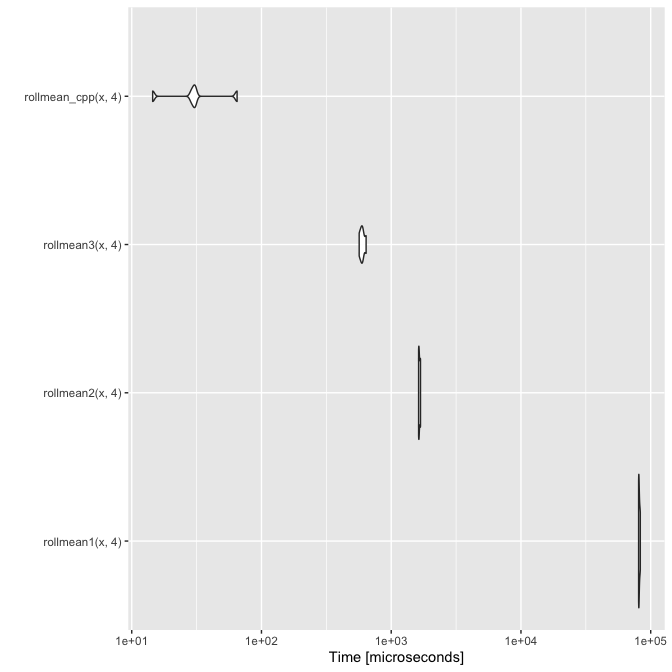
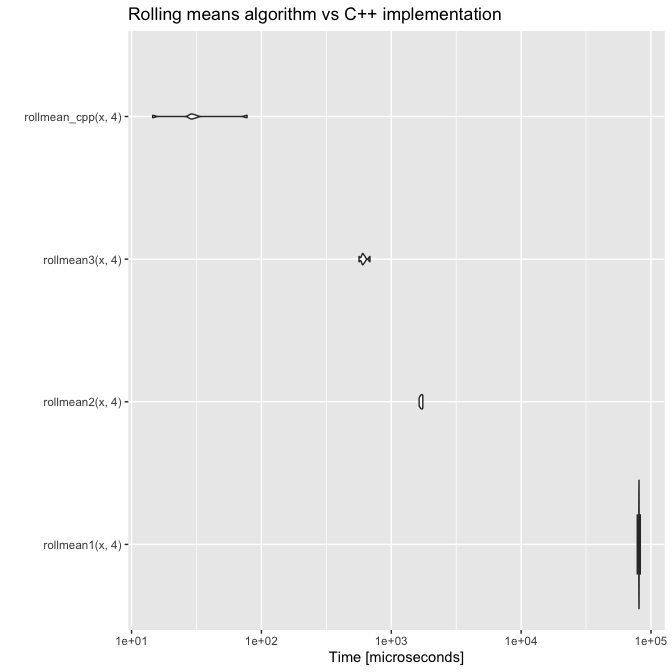
Sum C++ algorithm, plot titles.

diff --git a/README.md b/README.md
@@ -8,6 +8,7 @@ You can find all `C++` code here at the [`cpp`](/cpp) directory.
 
 One can mimic R's interactivity with `C++` using the `evalCpp()` function.
 
+
 ```r
 Rcpp::evalCpp("40 + 2")
 ```
@@ -94,12 +95,27 @@ Rcpp::evalCpp("(double) 13 / 4"); storage.mode(Rcpp::evalCpp("(double) 13 / 4"))
 
 ## Benchmarking
 
-We will be using `microbenchmark` package throughout along with the `ggplot2::autoplot()` function to visualise performance gains. Here I build a little function that sums all values in an array, let's compare it to the `R`'s built in `sum()` function.
+We will be using `microbenchmark` package throughout along with the `ggplot2::autoplot()` function to visualise performance gains. Here I build a little function in `R` and in `C++` which sums all values in an array, let's compare it to the `R`'s built in `sum()` function.
+
+
+
+```cpp
+#include <Rcpp.h>
+using namespace Rcpp;
+
+// [[Rcpp::export]]
+double sum_cpp(NumericVector x) {
+	double accum = 0;
+	for(int i = 0; x.size() > i; i++) {
+		accum = accum + x[i];
+	}
+	
+	return accum;
+}
+```
 
 
 ```r
-x <- runif(100000L) * 100
-
 sum_loop <- function(x) {
 	accum <- 0
 	for (i in 1:length(x)) {
@@ -107,8 +123,13 @@ sum_loop <- function(x) {
 	}
 	return(accum)
 }
+```
 
-all.equal(sum_loop(x), sum(x))
+
+```r
+x <- runif(100000L) * 100
+
+all.equal(sum_loop(x), sum(x), sum_cpp(x))
 ```
 
 ```
@@ -117,17 +138,20 @@ all.equal(sum_loop(x), sum(x))
 
 ```r
 res <- microbenchmark::microbenchmark(
+	sum_cpp(x),
 	sum_loop(x),
 	sum(x),
-	times = 3
+	times = 10
 )
 ```
 
+
 ```r
-ggplot2::autoplot(res)
+ggplot2::autoplot(res) +
+	ggplot2::labs(title = "Summing a vector implementations")
 ```
 
-<img src="/figures/cs-Rcpp_files/figure-html/benchmarking-plot-1.png" style="display: block; margin: auto;" />
+<img src="/Users/work/Autodidacte/data-science/data-camp/cs-Rcpp/figures/cs-Rcpp_files/figure-html/benchmarking-sum-plot-1.png" style="display: block; margin: auto;" />
 
 ```r
 remove(res)
@@ -248,9 +272,9 @@ identical(the_answer(), 42L)
 
 ```r
 cppFunction("
-double euclidean_distance(double x, double y) {
-	return sqrt(x * x + y * y);
-}
+	double euclidean_distance(double x, double y) {
+		return sqrt(x * x + y * y);
+	}
 ")
 
 euclidean_distance(1.5, 2.5)
@@ -277,13 +301,13 @@ It takes a string in double quotes and a place holder with a variable to replace
 
 ```r
 cppFunction('
-int fun() {
-	int x = 42;
-	
-	Rprintf("message, x = %d\\n", x);
-	
-	return 76;
-}
+	int fun() {
+		int x = 42;
+		
+		Rprintf("message, x = %d\\n", x);
+		
+		return 76;
+	}
 ')
 
 fun()
@@ -305,11 +329,11 @@ Note that `%d` and `%s` are used, first for an `integer` and the second for a `s
 ```r
 # Define the function add()
 cppFunction('
-int add(int x, int y) {
-	int res = x + y;
-	Rprintf("** %d + %d = %d\\n", x, y, res);
-	return res;
-}
+	int add(int x, int y) {
+		int res = x + y;
+		Rprintf("** %d + %d = %d\\n", x, y, res);
+		return res;
+	}
 ')
 
 # Call add() to print THE answer
@@ -329,16 +353,16 @@ Here we define a function that will only work if both arguments are positive, an
 
 ```r
 cppFunction('
-// adds x and y, but only if they are positive
-int add_positive_numbers(int x, int y) {
-	// if x is negative, stop
-	if(x < 0) stop("x is negative");
-	
-	// if y is negative, stop
-	if(y < 0) stop("y is negative");
-	
-	return x + y;
-}
+	// adds x and y, but only if they are positive
+	int add_positive_numbers(int x, int y) {
+		// if x is negative, stop
+		if(x < 0) stop("x is negative");
+		
+		// if y is negative, stop
+		if(y < 0) stop("y is negative");
+		
+		return x + y;
+	}
 ')
 
 # Call the function with positive numbers
@@ -932,10 +956,11 @@ res <- microbenchmark::microbenchmark(
 	times = 3
 )
 
-ggplot2::autoplot(res)
+ggplot2::autoplot(res) + 
+	ggplot2::labs(title = "Base weighted.mean vs C++ implementation")
 ```
 
-<img src="/figures/cs-Rcpp_files/figure-html/benchmark-weighted-mean-plot-1.png" style="display: block; margin: auto;" />
+<img src="/Users/work/Autodidacte/data-science/data-camp/cs-Rcpp/figures/cs-Rcpp_files/figure-html/benchmark-weighted-mean-plot-1.png" style="display: block; margin: auto;" />
 
 ```r
 remove(res)
@@ -1057,14 +1082,15 @@ res <- microbenchmark::microbenchmark(
 	good_cpp = good_select_positive_values_cpp(x)
 )
 
-ggplot2::autoplot(res)
+ggplot2::autoplot(res) +
+	ggplot2::labs(title = "Effect of vector initialisation/growth on performance")
 ```
 
 ```
 ## Coordinate system already present. Adding new coordinate system, which will replace the existing one.
 ```
 
-<img src="/figures/cs-Rcpp_files/figure-html/benchmark-good-vs-bad-vectors-cpp-plot-1.png" style="display: block; margin: auto;" />
+<img src="/Users/work/Autodidacte/data-science/data-camp/cs-Rcpp/figures/cs-Rcpp_files/figure-html/benchmark-good-vs-bad-vectors-cpp-plot-1.png" style="display: block; margin: auto;" />
 
 ```r
 remove(res)
@@ -1122,10 +1148,11 @@ res <- microbenchmark::microbenchmark(
 	times = 3
 )
 
-ggplot2::autoplot(res)
+ggplot2::autoplot(res) +
+	ggplot2::labs(title = "Custom vector initialisation algorithm vs std::vector")
 ```
 
-<img src="/figures/cs-Rcpp_files/figure-html/benchmark-std-easier-vectors-plot-1.png" style="display: block; margin: auto;" />
+<img src="/Users/work/Autodidacte/data-science/data-camp/cs-Rcpp/figures/cs-Rcpp_files/figure-html/benchmark-std-easier-vectors-plot-1.png" style="display: block; margin: auto;" />
 
 ```r
 remove(res)
@@ -1373,10 +1400,11 @@ res <- microbenchmark::microbenchmark(
 	times = 5
 )
 
-ggplot2::autoplot(res)
+ggplot2::autoplot(res) +
+	ggplot2::labs(title = "Rolling means algorithms")
 ```
 
-<img src="/figures/cs-Rcpp_files/figure-html/benchmark-rollmeans-plots-1.png" style="display: block; margin: auto;" />
+<img src="/Users/work/Autodidacte/data-science/data-camp/cs-Rcpp/figures/cs-Rcpp_files/figure-html/benchmark-rollmeans-plots-1.png" style="display: block; margin: auto;" />
 
 ```r
 remove(res)
@@ -1437,10 +1465,11 @@ res <- microbenchmark::microbenchmark(
 	times = 5
 )
 
-ggplot2::autoplot(res)
+ggplot2::autoplot(res) +
+	ggplot2::labs(title = "Rolling means algorithm vs C++ implementation")
 ```
 
-<img src="/figures/cs-Rcpp_files/figure-html/benchmark-cpp-rolling-mean-plot-1.png" style="display: block; margin: auto;" />
+<img src="/Users/work/Autodidacte/data-science/data-camp/cs-Rcpp/figures/cs-Rcpp_files/figure-html/benchmark-cpp-rolling-mean-plot-1.png" style="display: block; margin: auto;" />
 
 ```r
 remove(res)
@@ -1513,10 +1542,11 @@ res <- microbenchmark::microbenchmark(
 	times = 5
 )
 
-ggplot2::autoplot(res)
+ggplot2::autoplot(res) +
+	ggplot2::labs(title = "Last obs forward algorithm in R vs C++")
 ```
 
-<img src="/figures/cs-Rcpp_files/figure-html/benchmark-last-obs-forward-cpp-plot-1.png" style="display: block; margin: auto;" />
+<img src="/Users/work/Autodidacte/data-science/data-camp/cs-Rcpp/figures/cs-Rcpp_files/figure-html/benchmark-last-obs-forward-cpp-plot-1.png" style="display: block; margin: auto;" />
 
 ```r
 remove(res)
@@ -1596,10 +1626,11 @@ res <- microbenchmark::microbenchmark(
 	times = 5
 )
 
-ggplot2::autoplot(res)
+ggplot2::autoplot(res) +
+	ggplot2::labs(title = "NA substituting (mean) algorithms")
 ```
 
-<img src="/figures/cs-Rcpp_files/figure-html/benchmark-na-meancf-cpp-plot-1.png" style="display: block; margin: auto;" />
+<img src="/Users/work/Autodidacte/data-science/data-camp/cs-Rcpp/figures/cs-Rcpp_files/figure-html/benchmark-na-meancf-cpp-plot-1.png" style="display: block; margin: auto;" />
 
 ```r
 remove(res)
@@ -1660,12 +1691,12 @@ d <- data.frame(
 	y = ar_cpp(50, 10, c(1, -0.5), 1)
 )
 
-ggplot(d, aes(x, y)) +
-	geom_line() +
-	labs(title = "Auto regressive model")
+ggplot2::ggplot(d, aes(x, y)) +
+	ggplot2::geom_line() +
+	ggplot2::labs(title = "Auto regressive model")
 ```
 
-<img src="/figures/cs-Rcpp_files/figure-html/auto-regressive-cpp-1.png" style="display: block; margin: auto;" />
+<img src="/Users/work/Autodidacte/data-science/data-camp/cs-Rcpp/figures/cs-Rcpp_files/figure-html/auto-regressive-cpp-1.png" style="display: block; margin: auto;" />
 
 ```r
 remove(d)
@@ -1730,12 +1761,12 @@ d <- data.frame(
 	y = ma_cpp(50, 10, c(1, -0.5), 1)
 )
 
-ggplot(d, aes(x, y)) +
-	geom_line() +
-	labs(title = "Moving average")
+ggplot2::ggplot(d, aes(x, y)) +
+	ggplot2::geom_line() +
+	ggplot2::labs(title = "Moving average")
 ```
 
-<img src="/figures/cs-Rcpp_files/figure-html/moving-average-cpp-1.png" style="display: block; margin: auto;" />
+<img src="/Users/work/Autodidacte/data-science/data-camp/cs-Rcpp/figures/cs-Rcpp_files/figure-html/moving-average-cpp-1.png" style="display: block; margin: auto;" />
 
 ```r
 remove(d)
@@ -1792,12 +1823,12 @@ d <- data.frame(
 	y = arma(50, 10, c(1, -0.5), c(1, -0.5), 1)
 )
 
-ggplot(d, aes(x, y)) +
-	geom_line() +
-	labs(title = "ARMA model")
+ggplot2::ggplot(d, aes(x, y)) +
+	ggplot2::geom_line() +
+	ggplot2::labs(title = "ARMA model")
 ```
 
-<img src="/figures/cs-Rcpp_files/figure-html/arma-model-1.png" style="display: block; margin: auto;" />
+<img src="/Users/work/Autodidacte/data-science/data-camp/cs-Rcpp/figures/cs-Rcpp_files/figure-html/arma-model-1.png" style="display: block; margin: auto;" />
 
 ```r
 remove(d)
